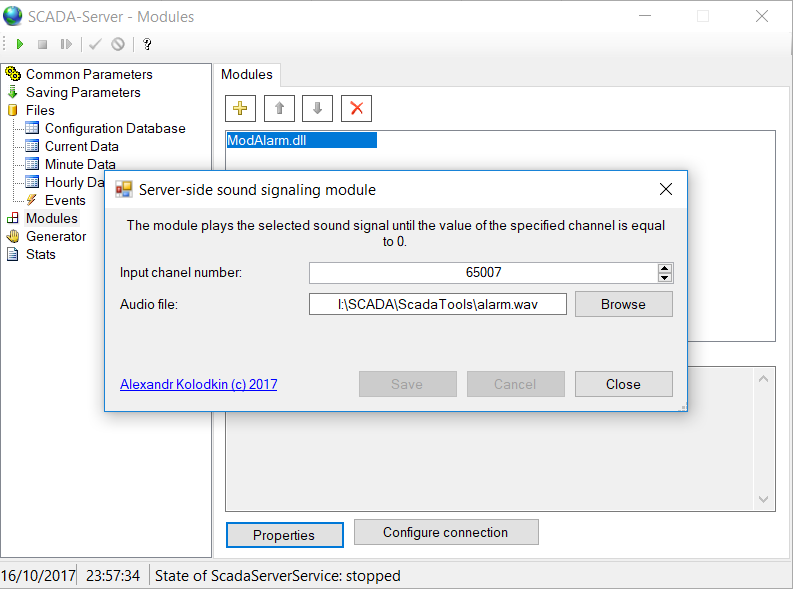
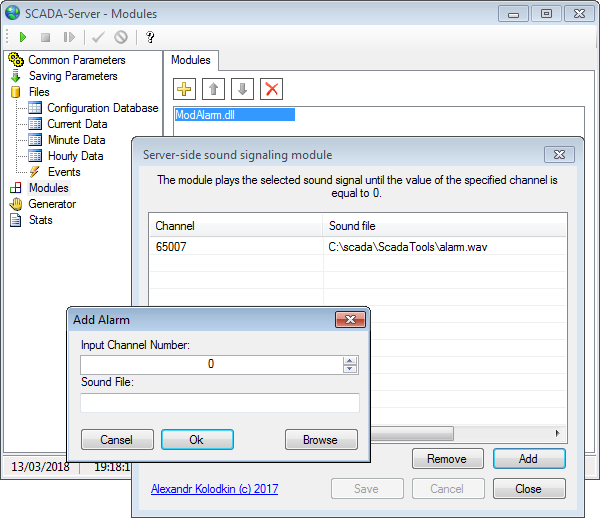
Исправлена локализация Исправлено поведение элементов окна настройки Обновлены скриншоты

diff --git a/FrmAlarmConfig.Designer.cs b/FrmAlarmConfig.Designer.cs
@@ -1,5 +1,5 @@
 /*
- * Copyright 2017-2018 Alexandr Kolodkin
+ * Copyright 2017-2018 Alexandr Kolodkin <alexandr.kolodkin@gmail.com>
  * 
  * Licensed under the Apache License, Version 2.0 (the "License");
  * you may not use this file except in compliance with the License.
@@ -58,11 +58,9 @@ namespace Scada.Server.Modules.Alarm
             this.btnSave = new System.Windows.Forms.Button();
             this.btnCancel = new System.Windows.Forms.Button();
             this.linkAuthor = new System.Windows.Forms.LinkLabel();
-            this.openFileDialog = new System.Windows.Forms.OpenFileDialog();
             this.inputChannels = new System.Windows.Forms.ListView();
-            this.channel = ((System.Windows.Forms.ColumnHeader)(new System.Windows.Forms.ColumnHeader()));
-            this.path = ((System.Windows.Forms.ColumnHeader)(new System.Windows.Forms.ColumnHeader()));
-            this.lblLine = new System.Windows.Forms.Label();
+            this.columnChannel = ((System.Windows.Forms.ColumnHeader)(new System.Windows.Forms.ColumnHeader()));
+            this.columnSoundFile = ((System.Windows.Forms.ColumnHeader)(new System.Windows.Forms.ColumnHeader()));
             this.btnAdd = new System.Windows.Forms.Button();
             this.btnRemove = new System.Windows.Forms.Button();
             this.SuspendLayout();
@@ -74,7 +72,7 @@ namespace Scada.Server.Modules.Alarm
             this.lblInfo.Location = new System.Drawing.Point(13, 9);
             this.lblInfo.Margin = new System.Windows.Forms.Padding(4, 0, 4, 0);
             this.lblInfo.Name = "lblInfo";
-            this.lblInfo.Size = new System.Drawing.Size(556, 55);
+            this.lblInfo.Size = new System.Drawing.Size(558, 44);
             this.lblInfo.TabIndex = 0;
             this.lblInfo.Text = "Модуль воспроизводит выбранный звуковой сигнал пока значение указанного канала не" +
     " равно 0";
@@ -84,7 +82,7 @@ namespace Scada.Server.Modules.Alarm
             // 
             this.btnClose.Anchor = ((System.Windows.Forms.AnchorStyles)((System.Windows.Forms.AnchorStyles.Bottom | System.Windows.Forms.AnchorStyles.Right)));
             this.btnClose.DialogResult = System.Windows.Forms.DialogResult.Cancel;
-            this.btnClose.Location = new System.Drawing.Point(469, 462);
+            this.btnClose.Location = new System.Drawing.Point(471, 383);
             this.btnClose.Margin = new System.Windows.Forms.Padding(4);
             this.btnClose.Name = "btnClose";
             this.btnClose.Size = new System.Drawing.Size(100, 28);
@@ -95,7 +93,7 @@ namespace Scada.Server.Modules.Alarm
             // btnSave
             // 
             this.btnSave.Anchor = ((System.Windows.Forms.AnchorStyles)((System.Windows.Forms.AnchorStyles.Bottom | System.Windows.Forms.AnchorStyles.Right)));
-            this.btnSave.Location = new System.Drawing.Point(253, 462);
+            this.btnSave.Location = new System.Drawing.Point(255, 383);
             this.btnSave.Margin = new System.Windows.Forms.Padding(4);
             this.btnSave.Name = "btnSave";
             this.btnSave.Size = new System.Drawing.Size(100, 28);
@@ -107,7 +105,7 @@ namespace Scada.Server.Modules.Alarm
             // btnCancel
             // 
             this.btnCancel.Anchor = ((System.Windows.Forms.AnchorStyles)((System.Windows.Forms.AnchorStyles.Bottom | System.Windows.Forms.AnchorStyles.Right)));
-            this.btnCancel.Location = new System.Drawing.Point(361, 462);
+            this.btnCancel.Location = new System.Drawing.Point(363, 383);
             this.btnCancel.Margin = new System.Windows.Forms.Padding(4);
             this.btnCancel.Name = "btnCancel";
             this.btnCancel.Size = new System.Drawing.Size(100, 28);
@@ -120,7 +118,7 @@ namespace Scada.Server.Modules.Alarm
             // 
             this.linkAuthor.Anchor = ((System.Windows.Forms.AnchorStyles)((System.Windows.Forms.AnchorStyles.Bottom | System.Windows.Forms.AnchorStyles.Left)));
             this.linkAuthor.AutoSize = true;
-            this.linkAuthor.Location = new System.Drawing.Point(12, 468);
+            this.linkAuthor.Location = new System.Drawing.Point(12, 389);
             this.linkAuthor.Name = "linkAuthor";
             this.linkAuthor.Size = new System.Drawing.Size(204, 17);
             this.linkAuthor.TabIndex = 4;
@@ -128,45 +126,37 @@ namespace Scada.Server.Modules.Alarm
             this.linkAuthor.Text = "Александр Колодкин (с) 2017";
             this.linkAuthor.LinkClicked += new System.Windows.Forms.LinkLabelLinkClickedEventHandler(this.linkAuthor_LinkClicked);
             // 
-            // openFileDialog
-            // 
-            this.openFileDialog.Filter = "WAV аудиофайл (*.wav)|*.wav";
-            // 
             // inputChannels
             // 
+            this.inputChannels.Anchor = ((System.Windows.Forms.AnchorStyles)((((System.Windows.Forms.AnchorStyles.Top | System.Windows.Forms.AnchorStyles.Bottom) 
+            | System.Windows.Forms.AnchorStyles.Left) 
+            | System.Windows.Forms.AnchorStyles.Right)));
             this.inputChannels.Columns.AddRange(new System.Windows.Forms.ColumnHeader[] {
-            this.channel,
-            this.path});
+            this.columnChannel,
+            this.columnSoundFile});
             this.inputChannels.FullRowSelect = true;
             this.inputChannels.GridLines = true;
-            this.inputChannels.Location = new System.Drawing.Point(12, 67);
+            this.inputChannels.Location = new System.Drawing.Point(12, 56);
             this.inputChannels.Name = "inputChannels";
-            this.inputChannels.Size = new System.Drawing.Size(557, 352);
+            this.inputChannels.Size = new System.Drawing.Size(559, 284);
             this.inputChannels.TabIndex = 5;
             this.inputChannels.UseCompatibleStateImageBehavior = false;
             this.inputChannels.View = System.Windows.Forms.View.Details;
             // 
-            // channel
+            // columnChannel
             // 
-            this.channel.Text = "Канал";
-            this.channel.Width = 173;
+            this.columnChannel.Text = "Канал";
+            this.columnChannel.Width = 173;
             // 
-            // path
+            // columnSoundFile
             // 
-            this.path.Text = "Аудиофайл";
-            this.path.Width = 378;
-            // 
-            // lblLine
-            // 
-            this.lblLine.BorderStyle = System.Windows.Forms.BorderStyle.Fixed3D;
-            this.lblLine.Location = new System.Drawing.Point(11, 456);
-            this.lblLine.Name = "lblLine";
-            this.lblLine.Size = new System.Drawing.Size(558, 2);
-            this.lblLine.TabIndex = 6;
+            this.columnSoundFile.Text = "Аудиофайл";
+            this.columnSoundFile.Width = 378;
             // 
             // btnAdd
             // 
-            this.btnAdd.Location = new System.Drawing.Point(469, 425);
+            this.btnAdd.Anchor = ((System.Windows.Forms.AnchorStyles)((System.Windows.Forms.AnchorStyles.Bottom | System.Windows.Forms.AnchorStyles.Right)));
+            this.btnAdd.Location = new System.Drawing.Point(471, 346);
             this.btnAdd.Name = "btnAdd";
             this.btnAdd.Size = new System.Drawing.Size(100, 28);
             this.btnAdd.TabIndex = 7;
@@ -176,7 +166,8 @@ namespace Scada.Server.Modules.Alarm
             // 
             // btnRemove
             // 
-            this.btnRemove.Location = new System.Drawing.Point(361, 425);
+            this.btnRemove.Anchor = ((System.Windows.Forms.AnchorStyles)((System.Windows.Forms.AnchorStyles.Bottom | System.Windows.Forms.AnchorStyles.Right)));
+            this.btnRemove.Location = new System.Drawing.Point(363, 346);
             this.btnRemove.Name = "btnRemove";
             this.btnRemove.Size = new System.Drawing.Size(99, 28);
             this.btnRemove.TabIndex = 8;
@@ -190,10 +181,9 @@ namespace Scada.Server.Modules.Alarm
             this.AutoScaleDimensions = new System.Drawing.SizeF(8F, 16F);
             this.AutoScaleMode = System.Windows.Forms.AutoScaleMode.Font;
             this.CancelButton = this.btnClose;
-            this.ClientSize = new System.Drawing.Size(582, 503);
+            this.ClientSize = new System.Drawing.Size(584, 424);
             this.Controls.Add(this.btnRemove);
             this.Controls.Add(this.btnAdd);
-            this.Controls.Add(this.lblLine);
             this.Controls.Add(this.inputChannels);
             this.Controls.Add(this.linkAuthor);
             this.Controls.Add(this.btnCancel);
@@ -207,7 +197,7 @@ namespace Scada.Server.Modules.Alarm
             this.Name = "FrmAlarmConfig";
             this.ShowIcon = false;
             this.ShowInTaskbar = false;
-            this.SizeGripStyle = System.Windows.Forms.SizeGripStyle.Show;
+            this.SizeGripStyle = System.Windows.Forms.SizeGripStyle.Hide;
             this.StartPosition = System.Windows.Forms.FormStartPosition.CenterParent;
             this.Text = "Серверный модуль звуковой сигнализации";
             this.FormClosing += new System.Windows.Forms.FormClosingEventHandler(this.FrmAlarmConfig_FormClosing);
@@ -224,11 +214,9 @@ namespace Scada.Server.Modules.Alarm
         private System.Windows.Forms.Button btnSave;
         private System.Windows.Forms.Button btnCancel;
         private System.Windows.Forms.LinkLabel linkAuthor;
-        private System.Windows.Forms.OpenFileDialog openFileDialog;
         private System.Windows.Forms.ListView inputChannels;
-        private System.Windows.Forms.ColumnHeader channel;
-        private System.Windows.Forms.ColumnHeader path;
-        private System.Windows.Forms.Label lblLine;
+        private System.Windows.Forms.ColumnHeader columnChannel;
+        private System.Windows.Forms.ColumnHeader columnSoundFile;
         private System.Windows.Forms.Button btnAdd;
         private System.Windows.Forms.Button btnRemove;
     }

diff --git a/FrmAddAlarm.Designer.cs b/FrmAddAlarm.Designer.cs
@@ -1,5 +1,5 @@
 /*
- * Copyright 2017-2018 Alexandr Kolodkin
+ * Copyright 2017-2018 Alexandr Kolodkin <alexandr.kolodkin@gmail.com>
  * 
  * Licensed under the Apache License, Version 2.0 (the "License");
  * you may not use this file except in compliance with the License.
@@ -22,7 +22,7 @@
  * Created  : 2018
  * Modified : 2018
  */
- 
+
 namespace Scada.Server.Modules
 {
     partial class FrmAddAlarm
@@ -61,15 +61,15 @@ namespace Scada.Server.Modules
             this.inputPath = new System.Windows.Forms.TextBox();
             this.btnBrowse = new System.Windows.Forms.Button();
             this.openFileDialog = new System.Windows.Forms.OpenFileDialog();
-            this.lblLine = new System.Windows.Forms.Label();
             ((System.ComponentModel.ISupportInitialize)(this.inputChannel)).BeginInit();
             this.SuspendLayout();
             // 
             // btnOk
             // 
-            this.btnOk.Location = new System.Drawing.Point(96, 148);
+            this.btnOk.Anchor = ((System.Windows.Forms.AnchorStyles)((System.Windows.Forms.AnchorStyles.Bottom | System.Windows.Forms.AnchorStyles.Left)));
+            this.btnOk.Location = new System.Drawing.Point(121, 119);
             this.btnOk.Name = "btnOk";
-            this.btnOk.Size = new System.Drawing.Size(75, 28);
+            this.btnOk.Size = new System.Drawing.Size(100, 28);
             this.btnOk.TabIndex = 0;
             this.btnOk.Text = "Ok";
             this.btnOk.UseVisualStyleBackColor = true;
@@ -77,10 +77,11 @@ namespace Scada.Server.Modules
             // 
             // btnCansel
             // 
+            this.btnCansel.Anchor = ((System.Windows.Forms.AnchorStyles)((System.Windows.Forms.AnchorStyles.Bottom | System.Windows.Forms.AnchorStyles.Left)));
             this.btnCansel.DialogResult = System.Windows.Forms.DialogResult.Cancel;
-            this.btnCansel.Location = new System.Drawing.Point(15, 148);
+            this.btnCansel.Location = new System.Drawing.Point(15, 119);
             this.btnCansel.Name = "btnCansel";
-            this.btnCansel.Size = new System.Drawing.Size(75, 28);
+            this.btnCansel.Size = new System.Drawing.Size(100, 28);
             this.btnCansel.TabIndex = 1;
             this.btnCansel.Text = "Отмена";
             this.btnCansel.UseVisualStyleBackColor = true;
@@ -96,6 +97,8 @@ namespace Scada.Server.Modules
             // 
             // inputChannel
             // 
+            this.inputChannel.Anchor = ((System.Windows.Forms.AnchorStyles)(((System.Windows.Forms.AnchorStyles.Top | System.Windows.Forms.AnchorStyles.Left) 
+            | System.Windows.Forms.AnchorStyles.Right)));
             this.inputChannel.Location = new System.Drawing.Point(15, 29);
             this.inputChannel.Maximum = new decimal(new int[] {
             65535,
@@ -103,7 +106,7 @@ namespace Scada.Server.Modules
             0,
             0});
             this.inputChannel.Name = "inputChannel";
-            this.inputChannel.Size = new System.Drawing.Size(483, 22);
+            this.inputChannel.Size = new System.Drawing.Size(372, 22);
             this.inputChannel.TabIndex = 3;
             this.inputChannel.TextAlign = System.Windows.Forms.HorizontalAlignment.Center;
             this.inputChannel.ValueChanged += new System.EventHandler(this.inputChannel_ValueChanged);
@@ -119,30 +122,29 @@ namespace Scada.Server.Modules
             // 
             // inputPath
             // 
-            this.inputPath.Location = new System.Drawing.Point(12, 74);
+            this.inputPath.Anchor = ((System.Windows.Forms.AnchorStyles)(((System.Windows.Forms.AnchorStyles.Top | System.Windows.Forms.AnchorStyles.Left) 
+            | System.Windows.Forms.AnchorStyles.Right)));
+            this.inputPath.Location = new System.Drawing.Point(15, 76);
             this.inputPath.Name = "inputPath";
-            this.inputPath.Size = new System.Drawing.Size(483, 22);
+            this.inputPath.Size = new System.Drawing.Size(372, 22);
             this.inputPath.TabIndex = 5;
             this.inputPath.TextAlign = System.Windows.Forms.HorizontalAlignment.Center;
             this.inputPath.TextChanged += new System.EventHandler(this.inputPath_TextChanged);
             // 
             // btnBrowse
             // 
-            this.btnBrowse.Location = new System.Drawing.Point(423, 148);
+            this.btnBrowse.Anchor = ((System.Windows.Forms.AnchorStyles)((System.Windows.Forms.AnchorStyles.Bottom | System.Windows.Forms.AnchorStyles.Right)));
+            this.btnBrowse.Location = new System.Drawing.Point(287, 119);
             this.btnBrowse.Name = "btnBrowse";
-            this.btnBrowse.Size = new System.Drawing.Size(75, 28);
+            this.btnBrowse.Size = new System.Drawing.Size(100, 28);
             this.btnBrowse.TabIndex = 6;
             this.btnBrowse.Text = "Обзор";
             this.btnBrowse.UseVisualStyleBackColor = true;
             this.btnBrowse.Click += new System.EventHandler(this.btnBrowse_Click);
             // 
-            // lblLine
+            // openFileDialog
             // 
-            this.lblLine.BorderStyle = System.Windows.Forms.BorderStyle.Fixed3D;
-            this.lblLine.Location = new System.Drawing.Point(15, 135);
-            this.lblLine.Name = "lblLine";
-            this.lblLine.Size = new System.Drawing.Size(483, 2);
-            this.lblLine.TabIndex = 7;
+            this.openFileDialog.Filter = "WAV аудио файл|*.wav";
             // 
             // FrmAddAlarm
             // 
@@ -150,8 +152,7 @@ namespace Scada.Server.Modules
             this.AutoScaleDimensions = new System.Drawing.SizeF(8F, 16F);
             this.AutoScaleMode = System.Windows.Forms.AutoScaleMode.Font;
             this.CancelButton = this.btnCansel;
-            this.ClientSize = new System.Drawing.Size(510, 188);
-            this.Controls.Add(this.lblLine);
+            this.ClientSize = new System.Drawing.Size(399, 159);
             this.Controls.Add(this.btnBrowse);
             this.Controls.Add(this.inputPath);
             this.Controls.Add(this.lblPath);
@@ -184,6 +185,5 @@ namespace Scada.Server.Modules
         private System.Windows.Forms.TextBox inputPath;
         private System.Windows.Forms.Button btnBrowse;
         private System.Windows.Forms.OpenFileDialog openFileDialog;
-        private System.Windows.Forms.Label lblLine;
     }
 }

diff --git a/FrmAlarmConfig.cs b/FrmAlarmConfig.cs
@@ -1,5 +1,5 @@
 /*
- * Copyright 2017-2018 Alexandr Kolodkin
+ * Copyright 2017-2018 Alexandr Kolodkin <alexandr.kolodkin@gmail.com>
  * 
  * Licensed under the Apache License, Version 2.0 (the "License");
  * you may not use this file except in compliance with the License.
@@ -144,7 +144,15 @@ namespace Scada.Server.Modules.Alarm
             if (!Localization.UseRussian)
             {
                 if (Localization.LoadDictionaries(appDirs.LangDir, "ModAlarm", out errMsg))
+                {
                     Translator.TranslateForm(this, "Scada.Server.Modules.Alarm.FrmAlarmConfig");
+
+                    inputChannels.Columns[0].Text = Localization.Dictionaries["Scada.Server.Modules.Alarm.FrmAlarmConfig"]
+                        .GetPhrase("columnChannel", inputChannels.Columns[0].Text);
+
+                    inputChannels.Columns[1].Text = Localization.Dictionaries["Scada.Server.Modules.Alarm.FrmAlarmConfig"]
+                        .GetPhrase("columnSoundFile", inputChannels.Columns[0].Text);
+                }
                 else
                     ScadaUiUtils.ShowError(errMsg);
             }

diff --git a/FrmAddAlarm.cs b/FrmAddAlarm.cs
@@ -1,5 +1,5 @@
 /*
- * Copyright 2017-2018 Alexandr Kolodkin
+ * Copyright 2017-2018 Alexandr Kolodkin <alexandr.kolodkin@gmail.com>
  * 
  * Licensed under the Apache License, Version 2.0 (the "License");
  * you may not use this file except in compliance with the License.
@@ -81,7 +81,12 @@ namespace Scada.Server.Modules
             if (!Localization.UseRussian)
             {
                 if (Localization.LoadDictionaries(appDirs.LangDir, "ModAlarm", out errMsg))
+                {
                     Translator.TranslateForm(this, "Scada.Server.Modules.Alarm.FrmAddAlarm");
+
+                    openFileDialog.Filter = Localization.Dictionaries["Scada.Server.Modules.Alarm.FrmAddAlarm"]
+                        .GetPhrase("openFileDialog.Filter", openFileDialog.Filter);
+                }
                 else
                     ScadaUiUtils.ShowError(errMsg);
             }

diff --git a/ModAlarmLogic.cs b/ModAlarmLogic.cs
@@ -1,5 +1,5 @@
 /*
- * Copyright 2017-2018 Alexandr Kolodkin
+ * Copyright 2017-2018 Alexandr Kolodkin <alexandr.kolodkin@gmail.com>
  * 
  * Licensed under the Apache License, Version 2.0 (the "License");
  * you may not use this file except in compliance with the License.
@@ -22,7 +22,7 @@
  * Created  : 2017
  * Modified : 2018
  */
- 
+
 using Scada.Data.Tables;
 using System.Collections.Generic;
 using System;

diff --git a/ModAlarmView.cs b/ModAlarmView.cs
@@ -1,5 +1,5 @@
 /*
- * Copyright 2017-2018 Alexandr Kolodkin
+ * Copyright 2017-2018 Alexandr Kolodkin <alexandr.kolodkin@gmail.com>
  * 
  * Licensed under the Apache License, Version 2.0 (the "License");
  * you may not use this file except in compliance with the License.

diff --git a/LoopStream.cs b/LoopStream.cs
@@ -1,5 +1,5 @@
 /*
- * Copyright 2017 Alexandr Kolodkin
+ * Copyright 2017 Alexandr Kolodkin <alexandr.kolodkin@gmail.com>
  * 
  * Licensed under the Apache License, Version 2.0 (the "License");
  * you may not use this file except in compliance with the License.

diff --git a/README.md b/README.md
@@ -2,6 +2,8 @@
 Server module for the [Rapid SCADA](https://rapidscada.org/).  
 Allows you to output the alarm sound.
 
+The alarm sound plays only on the server.
+
 Tested on Windows 7/10.
 Linux not supported.
 
